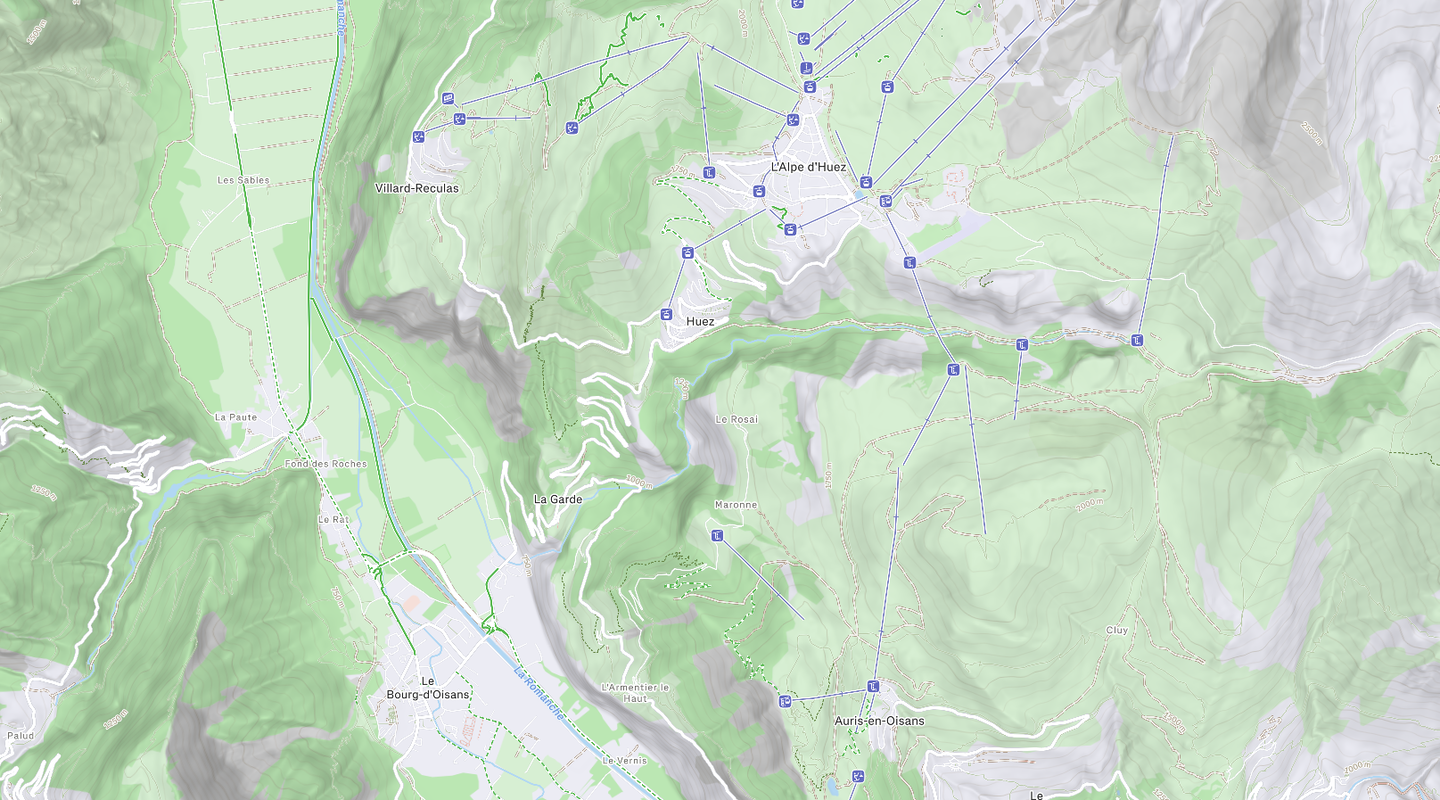
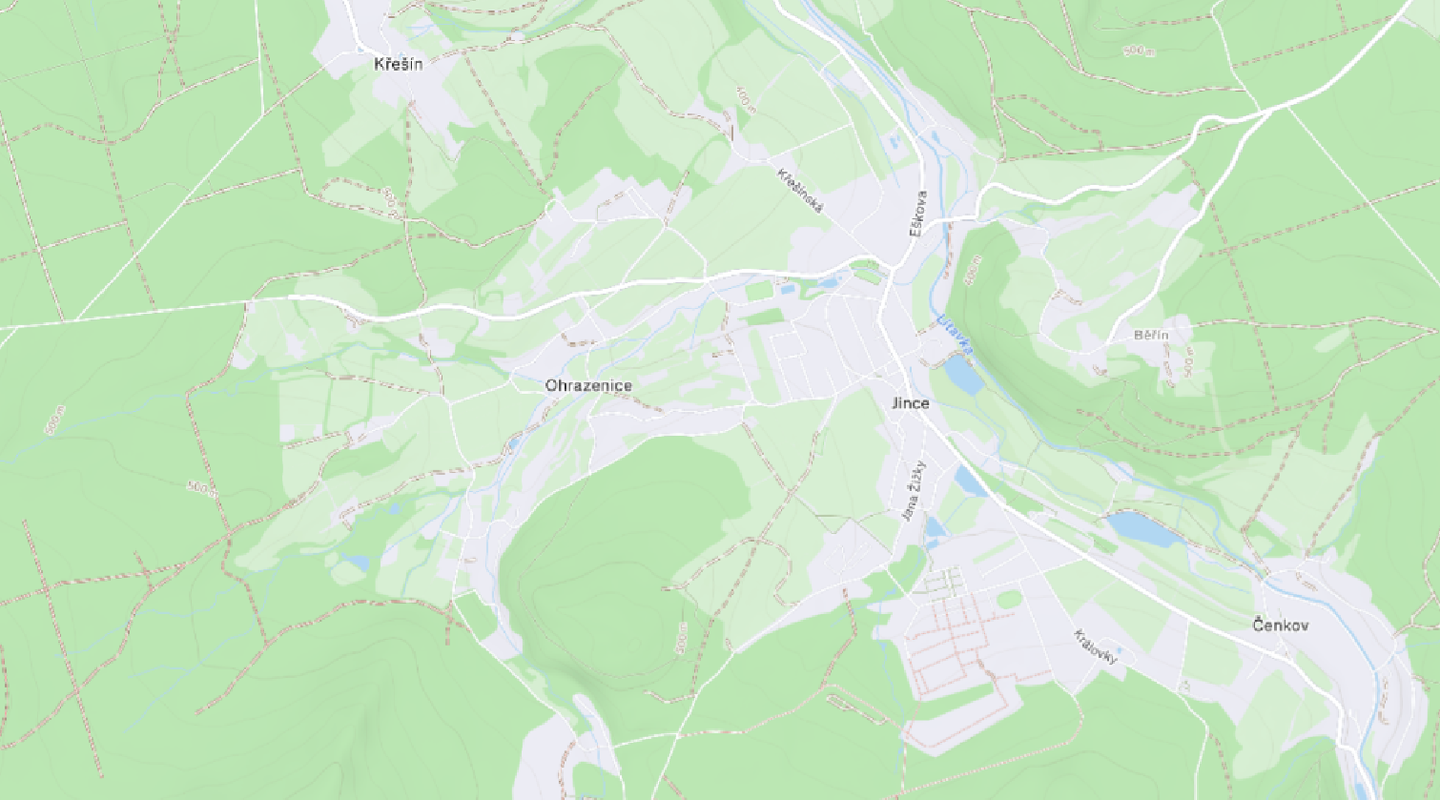
site: matched Jince pair in section 1 slider, Mapy-green left label, fix anchor scroll offset
- Replace terrain slider images with the hand-matched Mapy/Strava pair (1440x800)
- Left compare label now uses Mapy.com brand green #1eae00 (was blue)
- Add scroll-padding-top:78px so nav anchor jumps clear the sticky header

diff --git a/site/index.html b/site/index.html
@@ -21,7 +21,7 @@
         --shadow: 0 10px 30px rgba(20, 20, 30, 0.10);
     }
     * { box-sizing: border-box; }
-    html { scroll-behavior: smooth; }
+    html { scroll-behavior: smooth; scroll-padding-top: 78px; } /* clear the 63px sticky header on anchor jumps */
     body {
         margin: 0;
         font-family: system-ui, -apple-system, "Segoe UI", Roboto, sans-serif;
@@ -153,7 +153,7 @@
         box-shadow: 0 2px 8px rgba(0,0,0,0.3); }
     .ba-label { position: absolute; top: 12px; z-index: 2; pointer-events: none; padding: 4px 10px; border-radius: 999px;
         font-size: 12px; font-weight: 700; color: #fff; backdrop-filter: blur(2px); }
-    .ba-label--l { left: 12px; background: rgba(30,144,255,0.92); }
+    .ba-label--l { left: 12px; background: rgba(30,174,0,0.92); } /* Mapy.com brand green #1eae00 */
     .ba-label--r { right: 12px; background: rgba(252,82,0,0.92); }
 
     /* final cta */